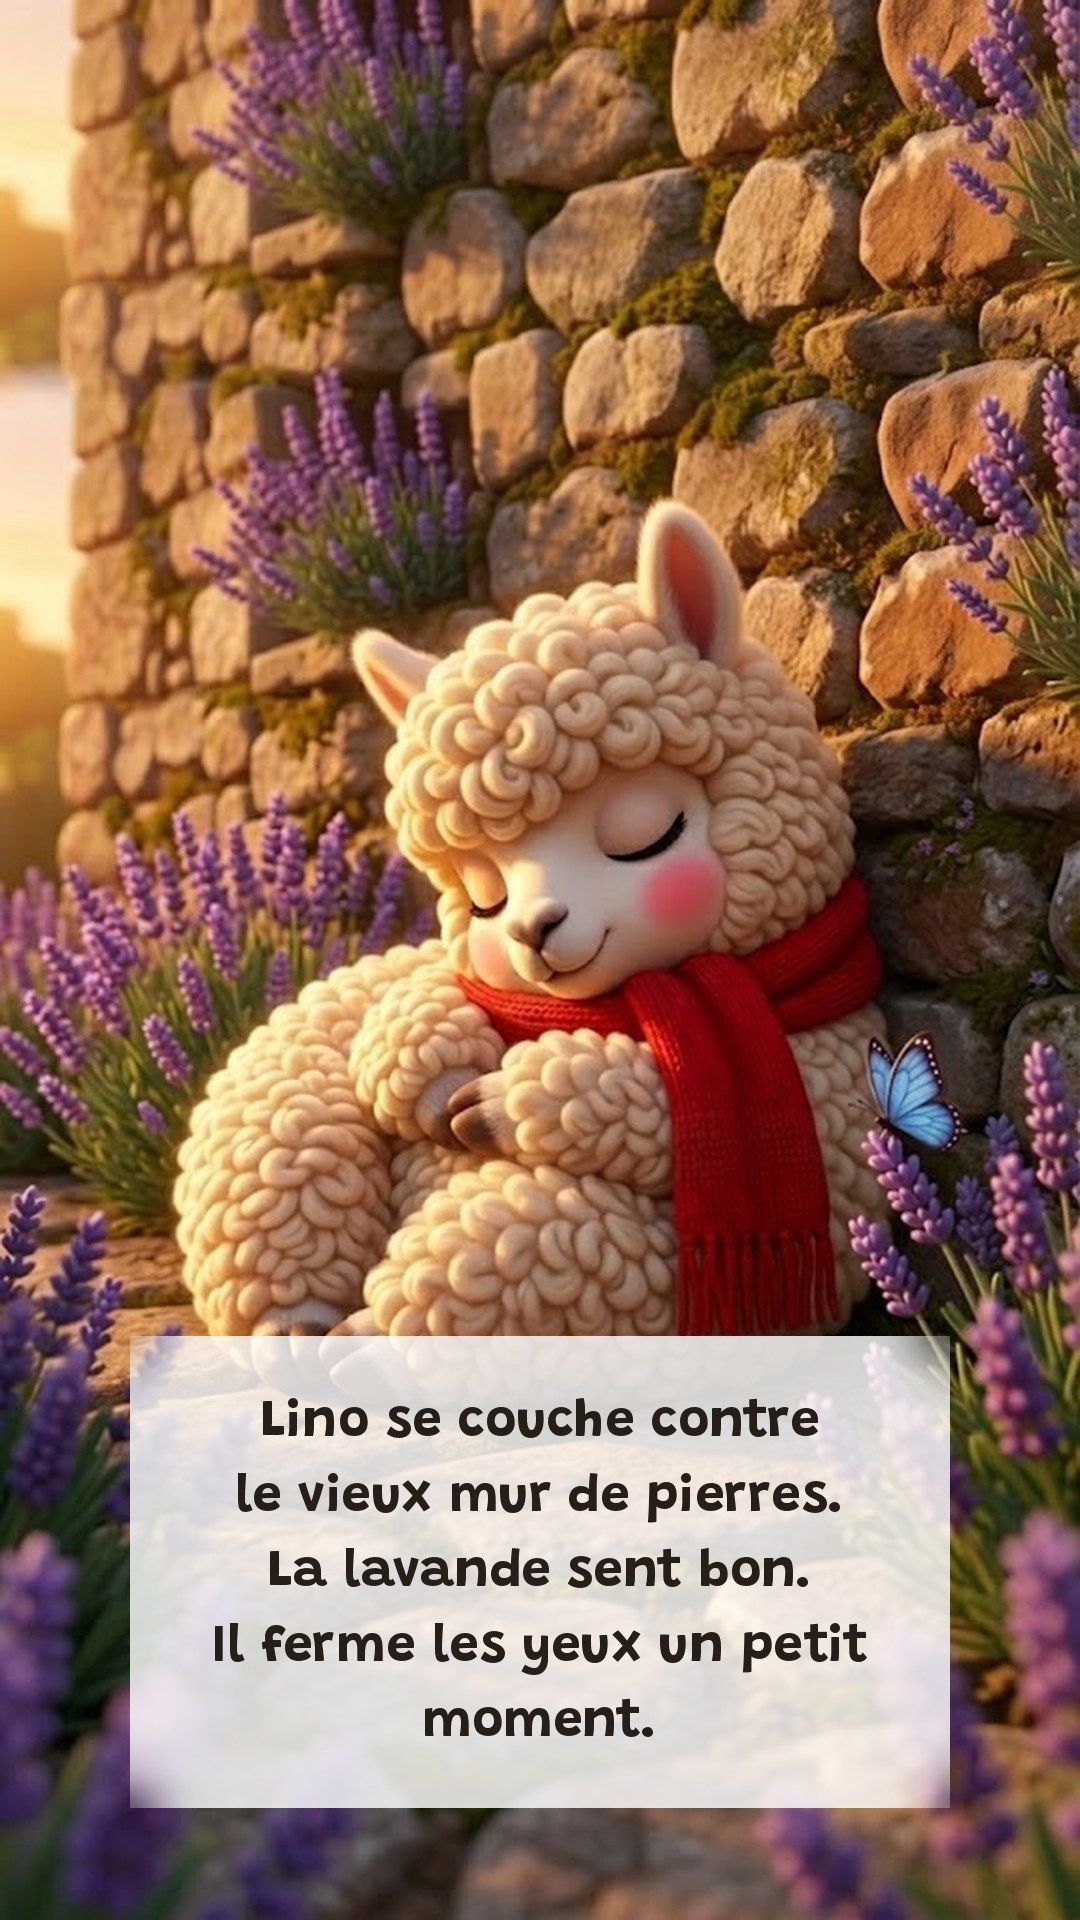
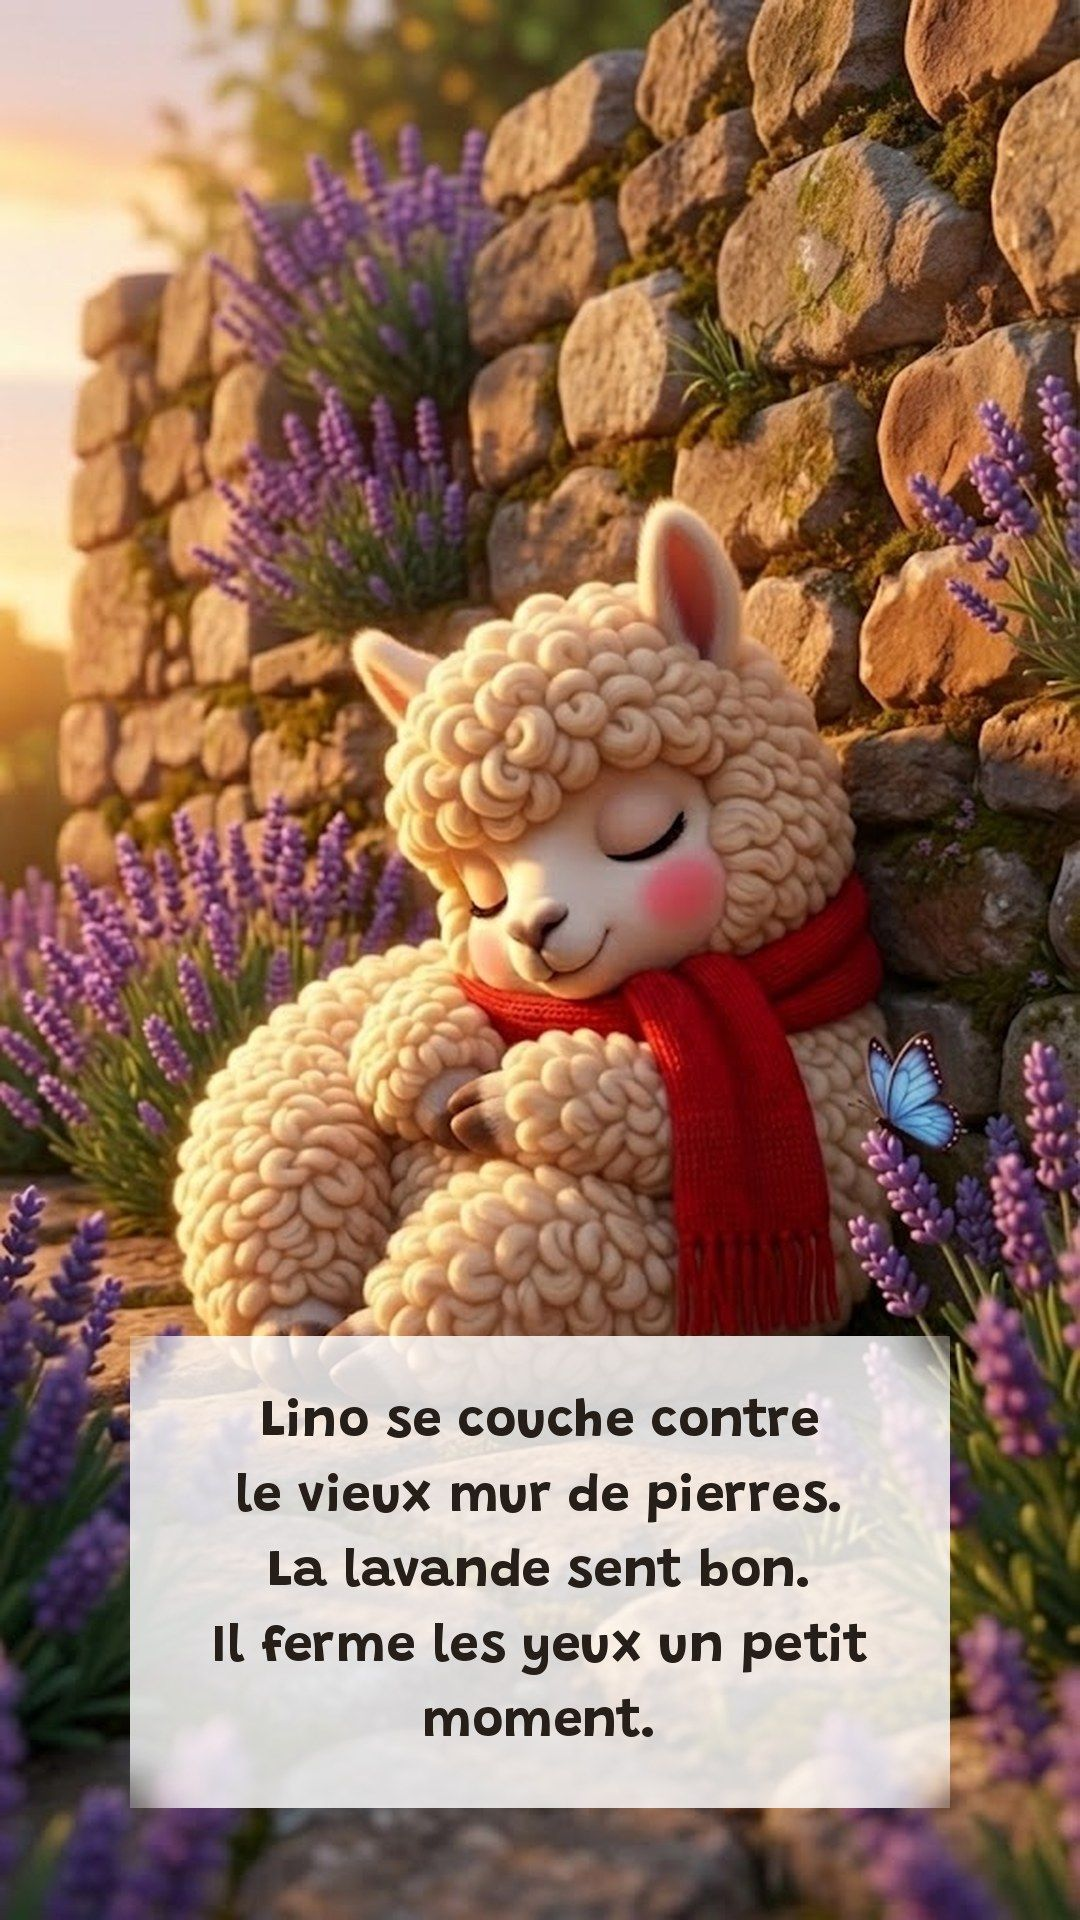
image 16 refaite dans les deux series + apercu Kindle fidele

diff --git a/kindle/index.html b/kindle/index.html
@@ -24,7 +24,7 @@
      ecran noir a chaque tourne de page.) */
   .page {
     position: absolute; inset: 0; width: 100%; height: 100%;
-    object-fit: cover; display: block;
+    object-fit: contain; display: block;
     opacity: 0; transition: opacity .32s ease;
   }
   .page.visible { opacity: 1; }
@@ -67,7 +67,7 @@
 <div id="indice">Balayez pour tourner la page</div>
 
 <script>
-const PAGES = ["images/page-01.jpg?v=6a2a3655","images/page-02.jpg?v=33f62416","images/page-03.jpg?v=7912732a","images/page-04.jpg?v=f6ebb3f6","images/page-05.jpg?v=4ec7a272","images/page-06.jpg?v=6d4a592b","images/page-07.jpg?v=5383f049","images/page-08.jpg?v=07aa368d","images/page-09.jpg?v=812ae5ff","images/page-10.jpg?v=90ddfeb2","images/page-11.jpg?v=43b5b0b6","images/page-12.jpg?v=495eeb31","images/page-13.jpg?v=5a83a257","images/page-14.jpg?v=3c1f588e","images/page-15.jpg?v=60c754bc","images/page-16.jpg?v=c49e5289","images/page-17.jpg?v=04d90bca","images/page-18.jpg?v=2f7aaf97","images/page-19.jpg?v=fb022652","images/page-20.jpg?v=909b00ac","images/page-21.jpg?v=e0902cd3","images/page-22.jpg?v=7f40a95f","images/page-23.jpg?v=4c42c30f","images/page-24.jpg?v=241ae26b","images/page-25.jpg?v=5cfc2f7b","images/page-26.jpg?v=5c5fe5cc"];
+const PAGES = ["images/page-01.jpg?v=dedbac33","images/page-02.jpg?v=33f62416","images/page-03.jpg?v=7912732a","images/page-04.jpg?v=f6ebb3f6","images/page-05.jpg?v=4ec7a272","images/page-06.jpg?v=6d4a592b","images/page-07.jpg?v=5383f049","images/page-08.jpg?v=07aa368d","images/page-09.jpg?v=812ae5ff","images/page-10.jpg?v=90ddfeb2","images/page-11.jpg?v=43b5b0b6","images/page-12.jpg?v=495eeb31","images/page-13.jpg?v=5a83a257","images/page-14.jpg?v=3c1f588e","images/page-15.jpg?v=60c754bc","images/page-16.jpg?v=c49e5289","images/page-17.jpg?v=04d90bca","images/page-18.jpg?v=434613a2","images/page-19.jpg?v=fb022652","images/page-20.jpg?v=909b00ac","images/page-21.jpg?v=e0902cd3","images/page-22.jpg?v=7f40a95f","images/page-23.jpg?v=4c42c30f","images/page-24.jpg?v=241ae26b","images/page-25.jpg?v=5cfc2f7b","images/page-26.jpg?v=5c5fe5cc"];
 const NUIT = '#050a16';
 const scene = document.getElementById('scene');
 const pA = document.getElementById('pA');

diff --git a/index.html b/index.html
@@ -67,7 +67,7 @@
 <div id="indice">Balayez pour tourner la page</div>
 
 <script>
-const PAGES = ["images/page-01.jpg?v=a8a9aca3","images/page-02.jpg?v=8993b998","images/page-03.jpg?v=891ff659","images/page-04.jpg?v=c244222b","images/page-05.jpg?v=ba7b0b1e","images/page-06.jpg?v=8bd2d4be","images/page-07.jpg?v=74441ef0","images/page-08.jpg?v=08f5a83b","images/page-09.jpg?v=0be33d53","images/page-10.jpg?v=4dbeee8a","images/page-11.jpg?v=21fbfb72","images/page-12.jpg?v=23f1d230","images/page-13.jpg?v=90eced7e","images/page-14.jpg?v=fcd89d40","images/page-15.jpg?v=345d2f5a","images/page-16.jpg?v=cda53917","images/page-17.jpg?v=569580b6","images/page-18.jpg?v=814b719f","images/page-19.jpg?v=6501db41","images/page-20.jpg?v=daff53fb","images/page-21.jpg?v=6cbb6e62","images/page-22.jpg?v=f946f8de","images/page-23.jpg?v=39ba42d1","images/page-24.jpg?v=58d639eb","images/page-25.jpg?v=ef23e78c","images/page-26.jpg?v=ed6126c6"];
+const PAGES = ["images/page-01.jpg?v=a8a9aca3","images/page-02.jpg?v=8993b998","images/page-03.jpg?v=891ff659","images/page-04.jpg?v=c244222b","images/page-05.jpg?v=ba7b0b1e","images/page-06.jpg?v=8bd2d4be","images/page-07.jpg?v=74441ef0","images/page-08.jpg?v=08f5a83b","images/page-09.jpg?v=0be33d53","images/page-10.jpg?v=4dbeee8a","images/page-11.jpg?v=21fbfb72","images/page-12.jpg?v=23f1d230","images/page-13.jpg?v=90eced7e","images/page-14.jpg?v=fcd89d40","images/page-15.jpg?v=345d2f5a","images/page-16.jpg?v=cda53917","images/page-17.jpg?v=569580b6","images/page-18.jpg?v=04763bc7","images/page-19.jpg?v=6501db41","images/page-20.jpg?v=daff53fb","images/page-21.jpg?v=6cbb6e62","images/page-22.jpg?v=f946f8de","images/page-23.jpg?v=39ba42d1","images/page-24.jpg?v=58d639eb","images/page-25.jpg?v=ef23e78c","images/page-26.jpg?v=ed6126c6"];
 const NUIT = '#050a16';
 const scene = document.getElementById('scene');
 const pA = document.getElementById('pA');
